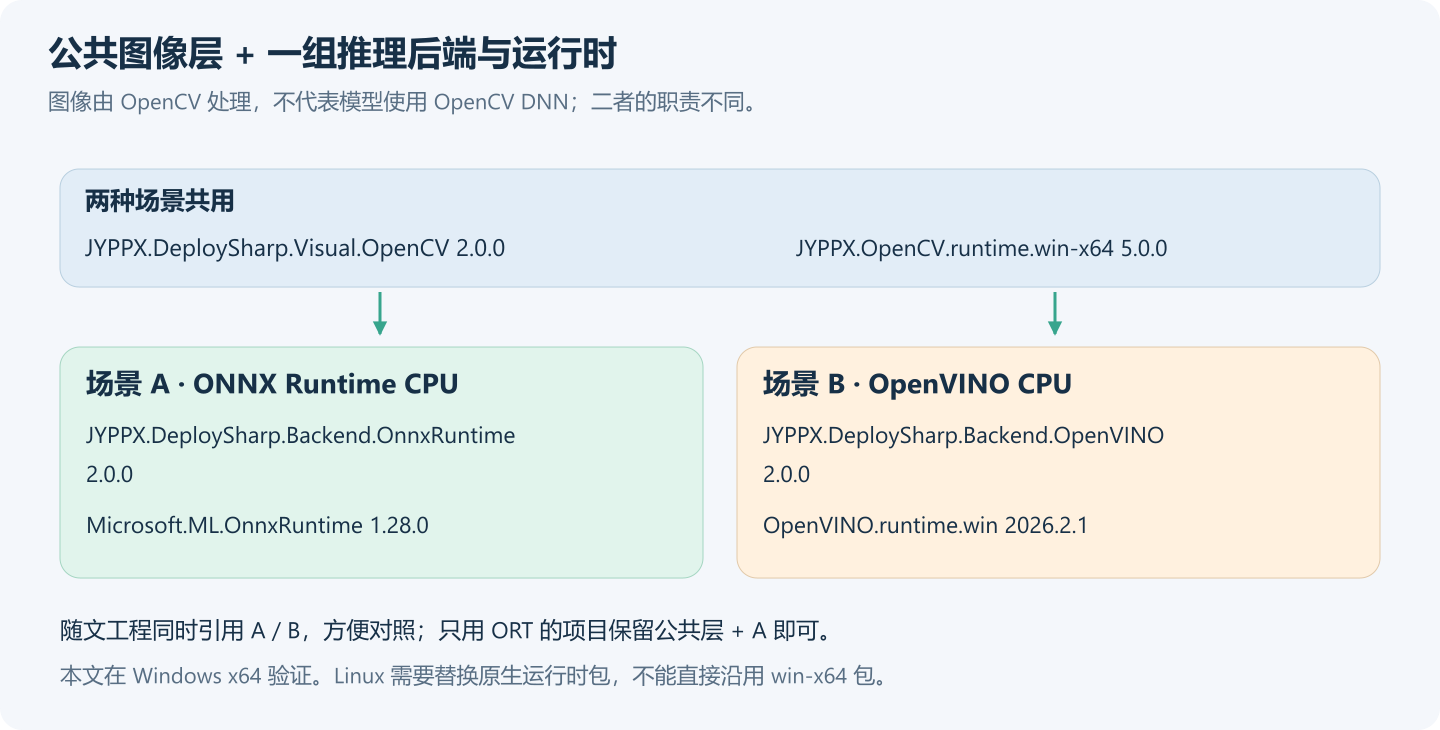
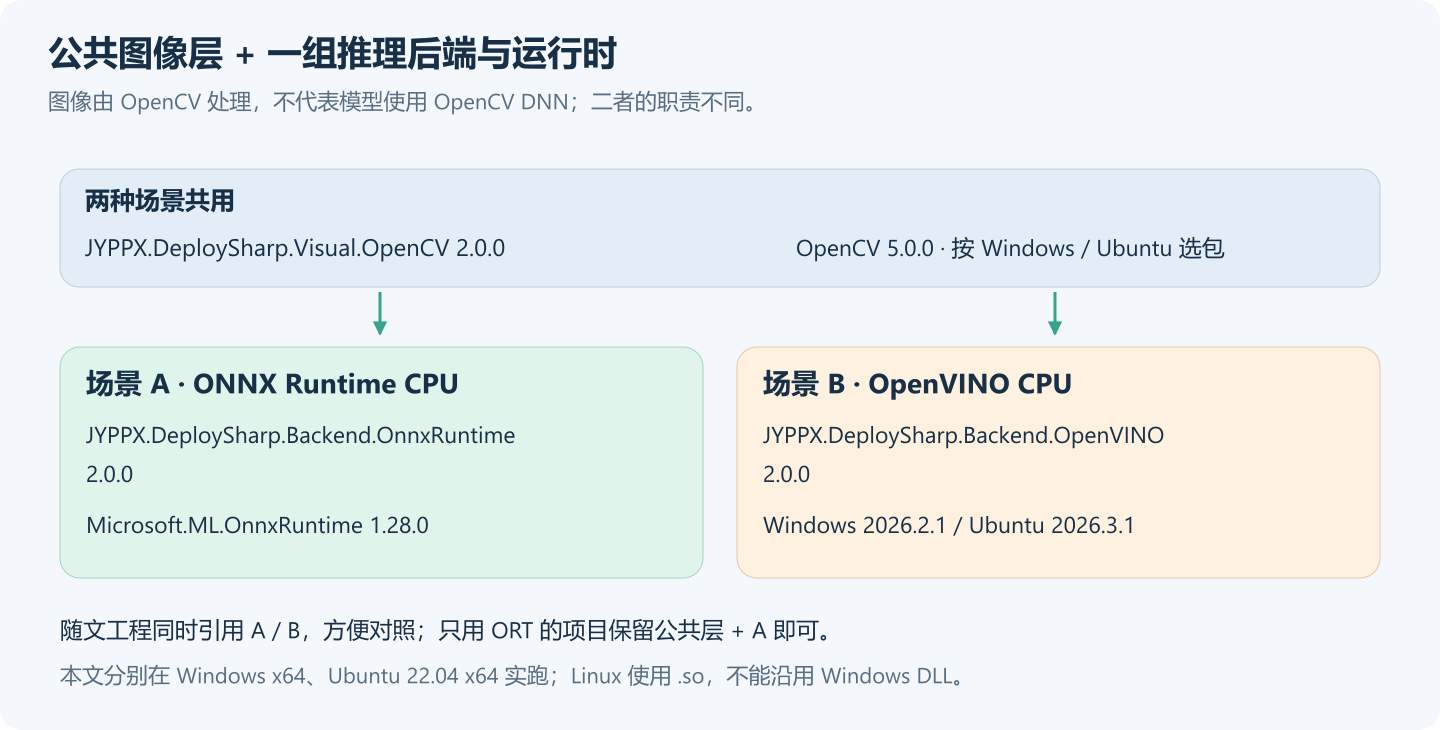
docs(blog): add Ubuntu PP-Structure runs and results

Changed region(s): [[0.0625, 0.9041, 0.6562, 0.9644], [0.5312, 0.6932, 0.7812, 0.7534], [0.5312, 0.3315, 0.8438, 0.3616]]

diff --git a/docs/blog/2.0.0/2026-10/2026-10-29-06-paddle-structure.md b/docs/blog/2.0.0/2026-10/2026-10-29-06-paddle-structure.md
@@ -64,20 +64,20 @@ https://www.nuget.org/packages?q=JYPPX.DeploySharp
 
 ### 3.1 本次实际验证环境
 
-| 项目 | 本次环境 |
-| --- | --- |
-| 操作系统 | Windows 11 x64，`10.0.26200` |
-| CPU | AMD Ryzen 7 5800H，8 核 16 线程 |
-| .NET | SDK `10.0.401`，运行时 `10.0.12`，目标框架 `net10.0` |
-| DeploySharp | 正式 NuGet `2.0.0`，示例没有引用本地源码项目 |
-| ORT | `Microsoft.ML.OnnxRuntime 1.28.0`，CPU |
-| OpenVINO | Windows runtime `2026.2.1`，CPU |
-| 图像组件 | JYPPX OpenCV Windows x64 runtime `5.0.0` |
-| 调度 | 文档模型 Batch=1；REC 上限 16；单 Session，区域按顺序执行 |
+| 项目 | Windows 实测 | Ubuntu 实测 |
+| --- | --- | --- |
+| 操作系统 | Windows 11 x64，`10.0.26200` | Ubuntu `22.04.5 LTS` x86_64 |
+| CPU | AMD Ryzen 7 5800H，8 核 16 线程 | Intel Core i7-1165G7，4 核 8 线程 |
+| .NET | SDK `10.0.401`，运行时 `10.0.12` | SDK `10.0.301`，运行时 `10.0.9` |
+| DeploySharp | 正式 NuGet `2.0.0`，`net10.0` | 同一份 C# 源码与正式 NuGet `2.0.0` |
+| ORT | `Microsoft.ML.OnnxRuntime 1.28.0`，CPU | 同版本，CPU |
+| OpenVINO | Windows runtime `2026.2.1`，CPU | Ubuntu runtime `2026.3.1`，CPU |
+| 图像组件 | JYPPX OpenCV Windows x64 runtime `5.0.0` | JYPPX OpenCV Ubuntu 22.04 x64 runtime `5.0.0` |
+| 调度 | 文档模型 Batch=1；REC 上限 16；单 Session，区域按顺序执行 | 相同配置 |
 
-本文验证的是两张图片、两个 CPU 后端的完整功能路径，没有进行预热、重复采样和性能排名。页面流水线按区域逐次执行 DET，是便于接入业务的示例配置，不能据此代表整页一次 OCR 或并发调度的最优速度。
+本文在两个系统上分别验证了两张图片、两个 CPU 后端的完整功能路径，没有进行预热、重复采样和性能排名。页面流水线按区域逐次执行 DET，是便于接入业务的示例配置，不能据此代表整页一次 OCR 或并发调度的最优速度。
 
-### 3.2 只用 ONNX Runtime CPU
+### 3.2 Windows：只用 ONNX Runtime CPU
 
 先创建一个 x64 控制台工程，然后安装图像层和 ORT 后端：
 
@@ -93,7 +93,7 @@ dotnet add package Microsoft.ML.OnnxRuntime --version 1.28.0
 
 在 `.csproj` 的 `PropertyGroup` 中增加 `<PlatformTarget>x64</PlatformTarget>`。Visual、Core 等依赖会自动引入，无须为版面、表格分类、单元格和结构识别各安装一个任务包。
 
-### 3.3 需要 OpenVINO，或者想切换两个后端
+### 3.3 Windows：需要 OpenVINO，或者想切换两个后端
 
 OpenVINO 场景保留公共图像层，选择 OpenVINO 后端和原生运行时。**随文完整工程同时引用 ORT 和 OpenVINO**，所以在上面的基础上再安装：
 
@@ -106,9 +106,22 @@ dotnet add package OpenVINO.runtime.win --version 2026.2.1
 
 下面这张图说明每一层的职责。**OpenCV 在这里负责读图、裁剪和绘制，模型推理分别由 ORT 或 OpenVINO 完成。**
 
-![公共图像层之下分别安装 ORT CPU 或 OpenVINO CPU 后端与原生运行时，完整示例同时保留两组用于切换](assets/06-paddle-structure/package-stack.png)
+![公共图像层与 ORT、OpenVINO 后端的安装选择，原生运行时按 Windows 或 Ubuntu 分别选择](assets/06-paddle-structure/package-stack.png)
 
-这些原生包针对 Windows x64。Linux 需要换成对应运行时；本篇没有在 Linux 上重跑这组 PP-Structure 案例。
+### 3.4 Ubuntu：保留 C# 代码，选择 Linux 原生包
+
+**同一个随文工程可以直接在 Ubuntu 22.04 x64 构建。** 托管层和 ORT 包不变，图像层与 OpenVINO 选择各自的 Linux 运行时：
+
+| 职责 | Windows 包 | Ubuntu 包 |
+| --- | --- | --- |
+| 图像原生库 | `JYPPX.OpenCV.runtime.win-x64 5.0.0` | `JYPPX.OpenCV.runtime.ubuntu.22.04-x64 5.0.0` |
+| OpenVINO 原生库 | `OpenVINO.runtime.win 2026.2.1` | `OpenVINO.runtime.ubuntu.22-x86_64 2026.3.1` |
+
+随文 `.csproj` 根据当前系统选择包；显式传入 `RuntimeIdentifier` 时按该值选择，当前配置覆盖 `win-x64` 和 `linux-x64`。这里的 Linux 包针对 **Ubuntu 22.04 x64**，不应直接当作所有 Linux 发行版的通用安装组合。
+
+工程还通过 MSBuild 将包里的 `.so` 复制到本地输出目录：OpenCV 放在 `native/opencv`，OpenVINO 放在 `native/openvino`。运行前设置本进程的 `LD_LIBRARY_PATH` 即可，后面给出完整 Bash 命令；读者不用查找或修改 NuGet 缓存里的文件。
+
+如果从空工程开始，建议采用随文的完整 `.csproj`，它同时包含条件选包与原生文件复制配置。仅执行 `dotnet add package` 并不能替代这部分部署设置。两套系统安装 .NET SDK 10 即可，不要求 SDK 小版本与本次设备完全相同。
 
 ## 四、准备模型、图片与随文源码
 
@@ -144,6 +157,14 @@ $base = 'https://github.com/guojin-yan/DeploySharp/releases/download/models-padd
 Invoke-WebRequest "$base/pp-doclayout-l.onnx" -OutFile models/pp-doclayout-l.onnx
 ```
 
+Ubuntu 的 Bash 对应写法：
+
+```bash
+mkdir -p models images
+model_base='https://github.com/guojin-yan/DeploySharp/releases/download/models-paddleocr'
+curl -fL "$model_base/pp-doclayout-l.onnx" -o models/pp-doclayout-l.onnx
+```
+
 其他模型同样按表格中的文件名下载。也可以使用自己的本地 ONNX：示例直接从 `models` 路径加载，**不要求读者计算模型或图片摘要**。更换模型时要同步核对 Profile、类别、张量名和预处理，不能只把任意文件改成同名。
 
 ### 4.2 使用官方公开示例图
@@ -167,6 +188,16 @@ Invoke-WebRequest 'https://paddle-model-ecology.bj.bcebos.com/paddlex/imgs/demo_
   -OutFile images/table_recognition.jpg
 ```
 
+Ubuntu 使用同样的两张输入：
+
+```bash
+mkdir -p images
+curl -fL 'https://paddle-model-ecology.bj.bcebos.com/paddlex/imgs/demo_image/pp_structure_v3_demo.png' \
+  -o images/pp_structure_v3_demo.png
+curl -fL 'https://paddle-model-ecology.bj.bcebos.com/paddlex/imgs/demo_image/table_recognition.jpg' \
+  -o images/table_recognition.jpg
+```
+
 换成自己的图片时只需修改命令中的输入路径。PDF 应先使用 PDF 渲染组件转成页面图，再逐页处理；本例不直接读取 PDF。
 
 ### 4.3 完整代码在哪里
@@ -179,7 +210,7 @@ https://github.com/guojin-yan/DeploySharp/tree/DeploySharpV2.0/docs/blog/2.0.0/2
 
 ```text
 06-paddle-structure/
-  PaddleStructure.csproj     # 正式 NuGet 2.0.0，含两个后端
+  PaddleStructure.csproj     # 正式 NuGet 2.0.0，按系统选择原生包，含两个后端
   Program.cs                # 命令、取消、退出码
   StructureDemo.cs          # 模型、两条任务路径、结果保存与绘图
   PageRoiOcrInput.cs         # 共享原图的区域 DET + REC 输入适配器
@@ -292,7 +323,7 @@ var textResult = result.GetRequired<PaddleDocumentTextResult>(
 
 ### 6.4 真实文字只节选，完整内容写入文件
 
-此次两种后端均得到 **30 个文字区域、142 行文字**。下面展示 ORT 的文字行框及前 8 行输出，其余内容由程序保存，不在文章中全部展开。
+此次 Windows、Ubuntu 的两种后端均得到 **30 个文字区域、142 行文字**。下面展示 Windows ORT 的文字行框及前 8 行输出，其余内容由程序保存，不在文章中全部展开。
 
 ![真实区域 OCR：142 行文字的原图框与 8 行输出节选，完整文字和坐标保存到文件](assets/06-paddle-structure/region-ocr-result.png)
 
@@ -399,7 +430,7 @@ Structure warnings: table-cell-geometry-outside-source:12/13
 
 ## 八、直接运行，并找到完整结果
 
-### 8.1 四条实际执行命令
+### 8.1 Windows：四条实际执行命令
 
 进入完整随文工程目录，按前面的文件名准备 `models` 和 `images`，执行：
 
@@ -426,7 +457,40 @@ dotnet run -c Release --no-build -- table images/my-cropped-table.jpg models ort
 
 程序支持 `Ctrl+C` 取消；成功退出码为 `0`，取消为 `2`，其他失败为 `1`。表格对齐失败时会保留诊断和结构展示文件，但不会输出冒充成功的文字表格。
 
-### 8.2 输出目录与用途
+### 8.2 Ubuntu：同一份源码运行两种 CPU 后端
+
+在 Ubuntu 22.04 x64 安装 .NET SDK 10，进入随文工程目录，准备相同的模型与图片。先构建，再把输出目录中的两组原生库加入**当前终端进程**的搜索路径：
+
+```bash
+dotnet --info
+dotnet restore
+dotnet build -c Release --no-restore
+
+export LD_LIBRARY_PATH="$PWD/bin/Release/net10.0/native/opencv:$PWD/bin/Release/net10.0/native/openvino:${LD_LIBRARY_PATH:-}"
+
+dotnet run -c Release --no-build -- page images/pp_structure_v3_demo.png models ort-cpu
+dotnet run -c Release --no-build -- table images/table_recognition.jpg models ort-cpu
+dotnet run -c Release --no-build -- page images/pp_structure_v3_demo.png models openvino
+dotnet run -c Release --no-build -- table images/table_recognition.jpg models openvino
+```
+
+如果按用户目录安装了 SDK，终端提示找不到 `dotnet`，先执行 `export PATH="$HOME/.dotnet:$PATH"`。上述原生库路径基于本例的 `Release/net10.0` 输出；改变构建目录或交付目录时也要相应调整，部署到服务时将搜索路径配置在服务进程中。
+
+这四条命令已在前述 Ubuntu 设备实际执行成功。下面节选自 ORT CPU 的控制台输出；OpenVINO 的计数和对齐结果相同：
+
+```text
+page: backend=ort-cpu; layout_regions=31; ocr_blocks=30; text_lines=142
+table: backend=ort-cpu; type=wired; rows=4; cells=13; alignment=True
+Structure warnings: table-cell-geometry-outside-source:12/13
+```
+
+下面的结果汇总图使用 **Ubuntu 实际生成的文字行框图与单元格框图**，并展示保存结果中的文字和 HTML 片段。它不是桌面截图，图中结果没有手工改字。
+
+![Ubuntu 22.04 上 PP-Structure 的真实结果汇总：ORT 与 OpenVINO CPU 都完成页面 OCR 和表格 HTML，文字与 Windows 基线逐项一致](assets/06-paddle-structure/ubuntu-result.png)
+
+两个系统运行相同的 C# 源码，只切换原生运行时。此次 Ubuntu 使用 OpenVINO `2026.3.1`，Windows 为 `2026.2.1`；这里只记录功能结果，不据此判断平台或后端的速度优劣。
+
+### 8.3 输出目录与用途
 
 ```text
 results/
@@ -450,14 +514,16 @@ results/
 
 再次运行同一个后端和模式会覆盖该目录下的同名结果。想保留多张图的结果，可以为每个输入生成独立输出子目录；文章示例不自动做批量归档。
 
-### 8.3 本次验证范围
+### 8.4 本次验证范围
 
-| 后端 | 页面版面 / 文字区域 / 文字行 | 有线表格行 / 格子 | HTML 填充 | 结构框警告 |
+| 系统与后端 | 页面版面 / 文字区域 / 文字行 | 有线表格行 / 格子 | HTML 填充 | 结构框警告 |
 | --- | --- | --- | --- | --- |
-| ORT CPU `1.28.0` | 31 / 30 / 142 | 4 / 13 | 对齐通过并填充 | 12/13 框越界 |
-| OpenVINO CPU `2026.2.1` | 31 / 30 / 142 | 4 / 13 | 使用兼容图，对齐通过并填充 | 12/13 框越界 |
+| Windows · ORT CPU `1.28.0` | 31 / 30 / 142 | 4 / 13 | 对齐通过并填充 | 12/13 框越界 |
+| Windows · OpenVINO CPU `2026.2.1` | 31 / 30 / 142 | 4 / 13 | 使用兼容图，对齐通过并填充 | 12/13 框越界 |
+| Ubuntu · ORT CPU `1.28.0` | 31 / 30 / 142 | 4 / 13 | 对齐通过并填充 | 12/13 框越界 |
+| Ubuntu · OpenVINO CPU `2026.3.1` | 31 / 30 / 142 | 4 / 13 | 使用兼容图，对齐通过并填充 | 12/13 框越界 |
 
-对本次保存结果逐项比较，两个后端的 **142 行 OCR 字符串和 13 个单元格字符串相同**；未将坐标、置信度或浮点张量宣称为逐位一致。这只反映这两个输入的功能结果，不代表所有模型、所有输入的后端精度相同。
+对本次保存结果逐项比较，四组的 **142 行 OCR 字符串和 13 个单元格字符串均与 Windows ORT CPU 基线相同**；未将坐标、置信度或浮点张量宣称为逐位一致。这只反映这两个输入的功能结果，不代表所有模型、所有输入的后端精度相同。
 
 本次没有跑 TensorRT、OpenCV DNN、无线表格、方向矫正或其他文档任务，也没有进行 CER/WER、TEDS 等数据集评测。需要判断更大范围的支持状态，查看仓库矩阵：
 
@@ -475,9 +541,20 @@ https://github.com/guojin-yan/DeploySharp/blob/DeploySharpV2.0/docs/model-backen
 | 提示缺少输入张量，或者框错位 | 是否用了正确 Profile 和文档预处理适配器 | 同步 `image/im_shape/scale_factor`，检查缩放与坐标变换 |
 | 版面类别明显不对 | 模型与标签顺序 | L/M/S 的 23 类不能随意套给其他标签体系 |
 | 一个段落只识别出零碎文字 | 是否把多行版面块直接交给 REC | 改为区域内 DET + REC，检查输入清晰度和缩放 |
+| Ubuntu 提示无法加载 OpenCV 或 OpenVINO `.so` | 系统架构、选包、输出文件和进程搜索路径 | 使用完整 `.csproj`，检查 `native` 目录与 `LD_LIBRARY_PATH`，再用 `ldd` 查缺失依赖 |
+| 构建出现 `NETSDK1206` | OpenCV 包中的发行版 RID `ubuntu.22.04-x64` | .NET 8+ 不默认选择该 RID；本例显式复制原生文件，继续确认输出和加载结果 |
 | OpenVINO 导入 SLANeXt 失败 | 是否实际加载了兼容 ONNX | 使用 Release 中的对应兼容图，勿只重命名原图 |
 | `alignment.Succeeded == false` | `alignment.json` 的诊断和 `cells.jpg` | 检查漏框、重复框、跨行结构与行几何，不盲目填充 |
 | 表格可以显示，但格内文字有误 | 原图、字典、裁剪、REC 结果 | 多行格改走 DET + REC；关键字段增加规则与复核 |
+
+本次 Ubuntu 构建出现了上表中的 `NETSDK1206` 警告，随后通过显式部署原生库跑通四条路径，没有将警告隐藏。需要排查 Linux 动态依赖时，可在工程目录执行：
+
+```bash
+ldd bin/Release/net10.0/native/opencv/libJYPPX.OpenCV.Native.so
+ldd bin/Release/net10.0/native/openvino/libopenvino_c.so
+```
+
+重点查找 `not found`，按缺失项补齐该系统的依赖；同时确认原生库与进程架构相同。本次两个入口的 `ldd` 检查均未发现缺失依赖。Windows DLL 不能代替 Linux `.so`，切换系统后也应重新构建对应输出目录。
 
 ### 9.2 生命周期、坐标和业务结果
 

diff --git a/docs/blog/2.0.0/README.md b/docs/blog/2.0.0/README.md
@@ -2,7 +2,7 @@
 
 本系列面向使用 C#/.NET 部署模型的开发者，围绕“安装与模型获取 → 完成任务 → 配置和扩展 → 并发与区域处理 → 性能验证”展开。基于 [DeploySharp 2.0.0](https://github.com/guojin-yan/DeploySharp/releases/tag/v2.0.0)，源码 Tag 为 `v2.0.0`，对应提交 `f07ed7f7d7e2e53ccb443e1517f34ebfc4f743c6`。
 
-第 01—06 篇主稿已完成。01 介绍项目、特色、模块与优势；02 从按场景安装到 YOLO26 检测、绘图，并在 Windows 跑通 ORT CPU、ORT CUDA、OpenVINO CPU、OpenCV DNN 与 TensorRT；03 组合 PaddleOCR DET、裁剪、CLS 与 REC，解释字典、Batch 和独立通道，补充 Windows/Ubuntu 基础运行及 Ubuntu v5 Mobile 四后端对照；04 讲解后端依赖与离线交付，同一份 YOLO26 CPU 工程自包含发布后在 Windows/Ubuntu 运行，并演示 PaddleOCR 单模型缓存；05 在 Windows ORT CPU 运行分类、YOLO26 实例分割、Pose 和 OBB，保存图像、掩码与 JSON，解释预处理和结果使用；06 在 Windows ORT CPU、OpenVINO CPU 跑通版面区域 DET+REC 与有线表格 HTML，保留对齐诊断和真实识别误差。随文代码均使用正式版 NuGet 验证。Windows ORT CPU 另外新实跑了 v4 Mobile 与 v6 Tiny，未将 Ubuntu v5 结果扩大到其他组合。其余文章仍为拟写主题，目前尚未向博客平台发表。各后端、模型与环境的范围分别说明。
+第 01—06 篇主稿已完成。01 介绍项目、特色、模块与优势；02 从按场景安装到 YOLO26 检测、绘图，并在 Windows 跑通 ORT CPU、ORT CUDA、OpenVINO CPU、OpenCV DNN 与 TensorRT；03 组合 PaddleOCR DET、裁剪、CLS 与 REC，解释字典、Batch 和独立通道，补充 Windows/Ubuntu 基础运行及 Ubuntu v5 Mobile 四后端对照；04 讲解后端依赖与离线交付，同一份 YOLO26 CPU 工程自包含发布后在 Windows/Ubuntu 运行，并演示 PaddleOCR 单模型缓存；05 在 Windows ORT CPU 运行分类、YOLO26 实例分割、Pose 和 OBB，保存图像、掩码与 JSON，解释预处理和结果使用；06 在 Windows、Ubuntu 分别使用 ORT CPU、OpenVINO CPU 跑通版面区域 DET+REC 与有线表格 HTML，补充 Linux 原生库部署和真实结果，保留对齐诊断与识别误差。随文代码均使用正式版 NuGet 验证。Windows ORT CPU 另外新实跑了 v4 Mobile 与 v6 Tiny，未将 Ubuntu v5 结果扩大到其他组合。其余文章仍为拟写主题，目前尚未向博客平台发表。各后端、模型与环境的范围分别说明。
 
 ## 主线选题
 
@@ -13,7 +13,7 @@
 | 03 | [在 C# 中运行 PaddleOCR v4/v5/v6：从文字检测到完整识别结果](2026-10/2026-10-28-03-paddleocr-pipeline.md) | 主稿完成：Windows/Ubuntu 运行完整 OCR，输出 TXT/JSON/文字框，对照 Ubuntu v5 Mobile 四后端 |
 | 04 | [DeploySharp 多后端部署：选择推理引擎，准备运行时与离线模型](2026-10/2026-10-28-04-multi-backend-offline.md) | 主稿完成：按引擎准备依赖，Windows/Ubuntu 自包含目录实际推理，在线准备与严格离线读取模型缓存 |
 | 05 | [DeploySharp 视觉多任务实战：在 C# 中完成分类、实例分割、关键点与旋转框检测](2026-10/2026-10-29-05-visual-multitask.md) | 主稿完成：Windows ORT CPU 四任务实跑，配置预处理与结果类型，输出源图叠色、二值掩码、有效骨架、旋转四边形与 JSON |
-| 06 | [在 C# 中使用 PP-Structure：从页面区域到表格 HTML](2026-10/2026-10-29-06-paddle-structure.md) | 主稿完成：Windows ORT/OpenVINO CPU 跑通多栏页面区域 DET+REC、有线表格分类、单元格检测、SLANeXt 对齐与 HTML 填充，附共享原图输入适配器和真实结果 |
+| 06 | [在 C# 中使用 PP-Structure：从页面区域到表格 HTML](2026-10/2026-10-29-06-paddle-structure.md) | 主稿完成：Windows/Ubuntu 的 ORT、OpenVINO CPU 跑通多栏页面区域 DET+REC、有线表格分类、单元格检测、SLANeXt 对齐与 HTML 填充，附共享原图输入适配器、Linux 运行命令和真实结果 |
 | 07 | 为 DeploySharp 接入自定义模型：配置前处理、后处理与结果类型 | 接入自有模型，并选择缩放、颜色和归一化方式 |
 | 08 | DeploySharp 批量与视频推理：Batch、Session 池和异步预取 | 选择调度方式，管理并发、输入所有权、取消和资源释放 |
 | 09 | DeploySharp ROI 实战：配置检测区域、过滤结果与还原坐标 | 保存区域配置，执行区域任务并将结果映射到原图 |
@@ -21,7 +21,7 @@
 | 11 | DeploySharp TensorRT 优化实战：Engine、CUDA 前后处理与数据复用 | 在支持的模型路径上构建 Engine、减少传输并测量实际收益 |
 | 12 | DeploySharp 2.0.0 性能实测：不同设备和后端应该怎样比较 | 阅读和复现具名设备结果，区分延迟、吞吐与完整流水线时间 |
 
-01—04 主稿均创建于 2026-10-28，05—06 创建于 2026-10-29，配图按编号保存在 `2026-10/assets/` 下。01 提供特色长图与流程图；02 的 8 张图讲解依赖、后端选择、端到端数据流、输出映射、坐标还原和 Windows 多后端实测；03 的 10 张图包含题图、官方多栏输入、OCR 流程、v4/v5/v6 组合、跨平台运行时、字典与 CTC、输出文件、Batch/Session 调度、四后端耗时及真实 v5 Mobile 结果，144 条区域输出只节选 10 条，完整结果由程序保存；04 的 8 张图讲解后端决策、运行时分层、离线目录、交付流程、缓存、换机排障，并展示自包含程序的真实检测结果；05 的 9 张图包括任务选型、包职责、预处理几何、公共流水线以及四组真实结果；06 的 9 张图解释文档任务分工、安装、预处理、ROI 坐标和表格对齐，并展示真实版面、文字行及 HTML 浏览器结果。示意图有 SVG 与 PNG，模型结果图由实际代码生成。随文源代码位于 `2026-10/examples/`，性能表说明输入、设备、预热次数、计时边界和验证限制；Windows ORT CUDA 已使用官方同版本 CUDA 12 原生包跑通，并补充了独立发布步骤。下一篇继续展开 07：自定义模型、前处理和结果类型。
+01—04 主稿均创建于 2026-10-28，05—06 创建于 2026-10-29，配图按编号保存在 `2026-10/assets/` 下。01 提供特色长图与流程图；02 的 8 张图讲解依赖、后端选择、端到端数据流、输出映射、坐标还原和 Windows 多后端实测；03 的 10 张图包含题图、官方多栏输入、OCR 流程、v4/v5/v6 组合、跨平台运行时、字典与 CTC、输出文件、Batch/Session 调度、四后端耗时及真实 v5 Mobile 结果，144 条区域输出只节选 10 条，完整结果由程序保存；04 的 8 张图讲解后端决策、运行时分层、离线目录、交付流程、缓存、换机排障，并展示自包含程序的真实检测结果；05 的 9 张图包括任务选型、包职责、预处理几何、公共流水线以及四组真实结果；06 的 10 张图解释文档任务分工、跨平台安装、预处理、ROI 坐标和表格对齐，并展示真实版面、文字行、HTML 浏览器结果及 Ubuntu 双后端结果汇总。示意图有 SVG 与 PNG，模型结果图由实际代码生成。随文源代码位于 `2026-10/examples/`，性能表说明输入、设备、预热次数、计时边界和验证限制；Windows ORT CUDA 已使用官方同版本 CUDA 12 原生包跑通，并补充了独立发布步骤。下一篇继续展开 07：自定义模型、前处理和结果类型。
 
 ## 后续专题
 

diff --git a/docs/blog/2.0.0/2026-10/examples/06-paddle-structure/README.md b/docs/blog/2.0.0/2026-10/examples/06-paddle-structure/README.md
@@ -4,18 +4,22 @@
 
 ## 环境与包
 
-Windows x64、.NET SDK 10。项目同时保留 ORT CPU 与 OpenVINO CPU 两条路径：
+Windows x64 或 Ubuntu 22.04 x64、.NET SDK 10。相同 C# 源码同时保留 ORT CPU 与 OpenVINO CPU 两条路径，`.csproj` 按当前系统选择原生包：
 
 | 包 | 版本 | 职责 |
 | --- | --- | --- |
 | `JYPPX.DeploySharp.Visual.OpenCV` | 2.0.0 | 图像、OCR 裁剪和文档输入适配 |
-| `JYPPX.OpenCV.runtime.win-x64` | 5.0.0 | 图像原生运行时 |
+| `JYPPX.OpenCV.runtime.win-x64` | 5.0.0 | Windows 图像原生运行时 |
+| `JYPPX.OpenCV.runtime.ubuntu.22.04-x64` | 5.0.0 | Ubuntu 22.04 图像原生运行时 |
 | `JYPPX.DeploySharp.Backend.OnnxRuntime` | 2.0.0 | ORT 后端 |
 | `Microsoft.ML.OnnxRuntime` | 1.28.0 | ORT CPU 运行时 |
 | `JYPPX.DeploySharp.Backend.OpenVINO` | 2.0.0 | OpenVINO 后端 |
 | `OpenVINO.runtime.win` | 2026.2.1 | OpenVINO Windows 运行时 |
+| `OpenVINO.runtime.ubuntu.22-x86_64` | 2026.3.1 | OpenVINO Ubuntu 22.04 运行时 |
 
-只使用 ORT 时，可移除 OpenVINO 两个引用及 `StructureDemo.cs` 中对应 using、分支和注册调用。Linux 需要更换原生运行时包；本例在 Windows 验证。
+Windows 和 Ubuntu 的原生包按条件分别引用，不要求同时安装两套系统的运行时。显式传入 `RuntimeIdentifier` 时仅配置 `win-x64` / `linux-x64`；这里的 Linux 包面向 Ubuntu 22.04，不扩大为所有 Linux 发行版支持。
+
+只使用 ORT 时，可移除 OpenVINO 后端、对应系统的运行时引用及 `StructureDemo.cs` 中对应 using、分支和注册调用，并删除 Linux OpenVINO 原生文件复制项。完整工程已将 Linux 原生文件复制到输出目录的 `native/opencv` 与 `native/openvino`，不要仅添加包而遗漏 `.csproj` 中的复制配置。
 
 ## 准备模型与输入
 
@@ -35,11 +39,21 @@ Invoke-WebRequest 'https://paddle-model-ecology.bj.bcebos.com/paddlex/imgs/demo_
   -OutFile images/table_recognition.jpg
 ```
 
+Ubuntu Bash：
+
+```bash
+mkdir -p images models
+curl -fL 'https://paddle-model-ecology.bj.bcebos.com/paddlex/imgs/demo_image/pp_structure_v3_demo.png' \
+  -o images/pp_structure_v3_demo.png
+curl -fL 'https://paddle-model-ecology.bj.bcebos.com/paddlex/imgs/demo_image/table_recognition.jpg' \
+  -o images/table_recognition.jpg
+```
+
 也可直接传入自己的图片和匹配的本地 ONNX 目录。模型输入、标签和预处理需与示例 Profile 一致；PDF 请先渲染成页面图片。
 
 ## 运行
 
-进入本目录执行：
+Windows PowerShell，进入本目录执行：
 
 ```powershell
 dotnet restore
@@ -48,6 +62,23 @@ dotnet run -c Release --no-build -- table images/table_recognition.jpg models or
 dotnet run -c Release --no-build -- page images/pp_structure_v3_demo.png models openvino
 dotnet run -c Release --no-build -- table images/table_recognition.jpg models openvino
 ```
+
+Ubuntu Bash，进入同一份工程目录，构建后设置当前进程的原生库搜索路径：
+
+```bash
+dotnet restore
+dotnet build -c Release --no-restore
+export LD_LIBRARY_PATH="$PWD/bin/Release/net10.0/native/opencv:$PWD/bin/Release/net10.0/native/openvino:${LD_LIBRARY_PATH:-}"
+
+dotnet run -c Release --no-build -- page images/pp_structure_v3_demo.png models ort-cpu
+dotnet run -c Release --no-build -- table images/table_recognition.jpg models ort-cpu
+dotnet run -c Release --no-build -- page images/pp_structure_v3_demo.png models openvino
+dotnet run -c Release --no-build -- table images/table_recognition.jpg models openvino
+```
+
+按用户目录安装 SDK 且找不到 `dotnet` 时，先执行 `export PATH="$HOME/.dotnet:$PATH"`。改变构建目录或部署到服务后，相应调整原生库搜索路径。
+
+Ubuntu 构建可能出现 `NETSDK1206`：.NET 8+ 不默认选择包中的 `ubuntu.22.04-x64` 发行版 RID。本例通过显式复制原生文件完成部署；本次保留该警告并成功执行四条路径。若仍提示无法加载 `.so`，检查输出目录和 `LD_LIBRARY_PATH`，再用 `ldd` 查找缺失依赖。
 
 `Ctrl+C` 取消。成功退出码 `0`，取消 `2`，其他失败 `1`。
 
@@ -63,4 +94,13 @@ dotnet run -c Release --no-build -- table images/table_recognition.jpg models op
 - 对齐失败保存结构、检测图、诊断和失败提示 HTML，返回非零退出码。自动对齐不覆盖未验证的跨行 `rowspan`。
 - 本例 SLANeXt 有结构框越界警告，保留在 `table.json`；裁剪采用独立 RT-DETR 框。HTML 和文字保留模型误差，不自动改字。
 
-2026-10-29，Windows 11、Ryzen 7 5800H、.NET SDK 10.0.401 上，ORT CPU 与 OpenVINO CPU 均跑通两个输入：页面 31 个版面区域、30 个 OCR 区域、142 行文字；有线表格 4 行、13 格，对齐通过。两后端的 142 行 OCR 字符串与 13 个单元格字符串分别相同；没有断言浮点张量、坐标或置信度逐位一致。本篇未做性能排名或数据集准确率评测，未将结果扩大到其他模型与后端。
+## 本次实测
+
+2026-10-29，以下两个系统、两种 CPU 后端均运行了 `page` 和 `table`：
+
+| 系统 | 设备与 .NET SDK | 后端 |
+| --- | --- | --- |
+| Windows 11 x64 | Ryzen 7 5800H；SDK 10.0.401 | ORT CPU 1.28.0；OpenVINO CPU 2026.2.1 |
+| Ubuntu 22.04.5 LTS x86_64 | Core i7-1165G7；SDK 10.0.301 | ORT CPU 1.28.0；OpenVINO CPU 2026.3.1 |
+
+四组结果均为：页面 31 个版面区域、30 个 OCR 区域、142 行文字；有线表格 4 行、13 格，对齐通过并填充 HTML。142 行 OCR 字符串与 13 个单元格字符串均与 Windows ORT CPU 基线逐项相同；没有断言浮点张量、坐标或置信度逐位一致。结构框越界警告在四组中均保留。本篇未做性能排名或数据集准确率评测，未将结果扩大到其他模型与后端。

diff --git a/docs/blog/README.md b/docs/blog/README.md
@@ -4,7 +4,7 @@
 
 | 基于版本 | 系列入口 | 当前状态 |
 | --- | --- | --- |
-| 2.0.0 | [2.0.0 系列](2.0.0/README.md) | 第 01—06 篇主稿完成；02 包含 Windows YOLO26 五条执行路径，03 包含 Windows/Ubuntu OCR 与 Ubuntu 四后端对照，04 包含 Windows/Ubuntu 自包含离线推理与模型缓存，05 包含 Windows ORT CPU 分类、分割、Pose 与 OBB 四组真实结果，06 包含 Windows ORT/OpenVINO CPU 页面区域 OCR 与有线表格 HTML；均有正式 NuGet 可运行代码，尚未向博客平台发表 |
+| 2.0.0 | [2.0.0 系列](2.0.0/README.md) | 第 01—06 篇主稿完成；02 包含 Windows YOLO26 五条执行路径，03 包含 Windows/Ubuntu OCR 与 Ubuntu 四后端对照，04 包含 Windows/Ubuntu 自包含离线推理与模型缓存，05 包含 Windows ORT CPU 分类、分割、Pose 与 OBB 四组真实结果，06 包含 Windows/Ubuntu 的 ORT、OpenVINO CPU 页面区域 OCR 与有线表格 HTML；均有正式 NuGet 可运行代码，尚未向博客平台发表 |
 
 ## 目录与命名
 
